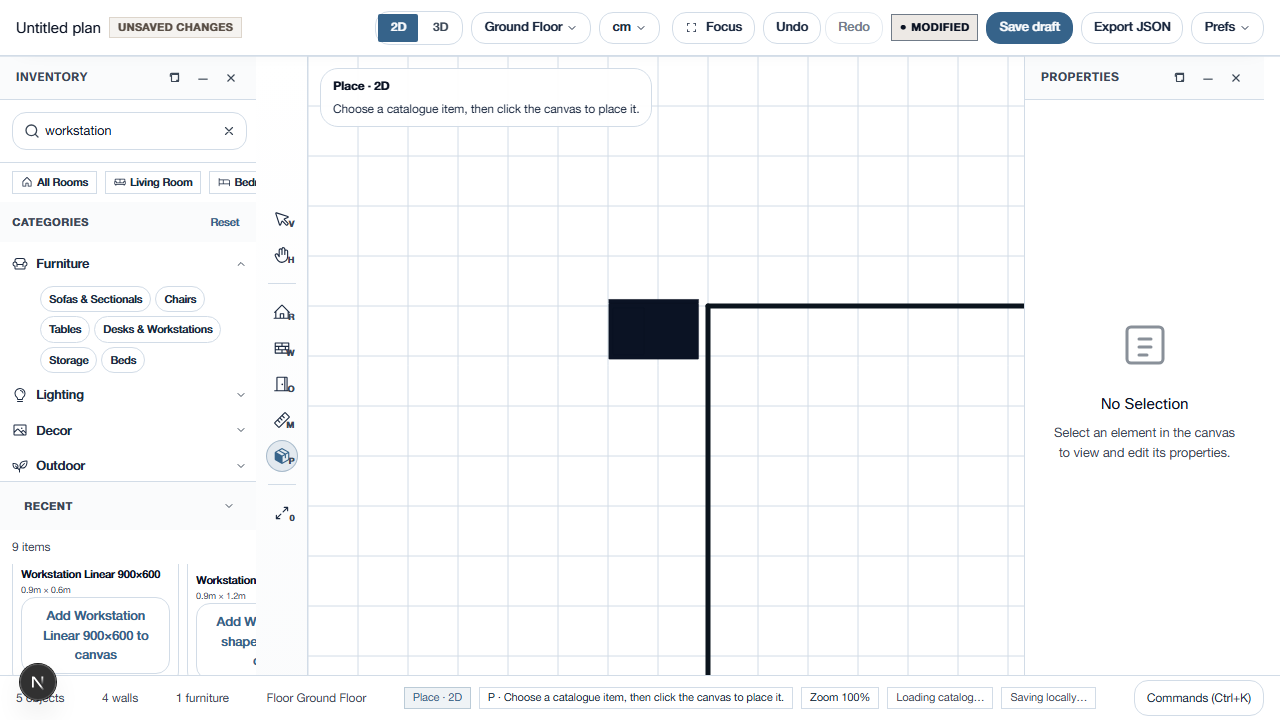
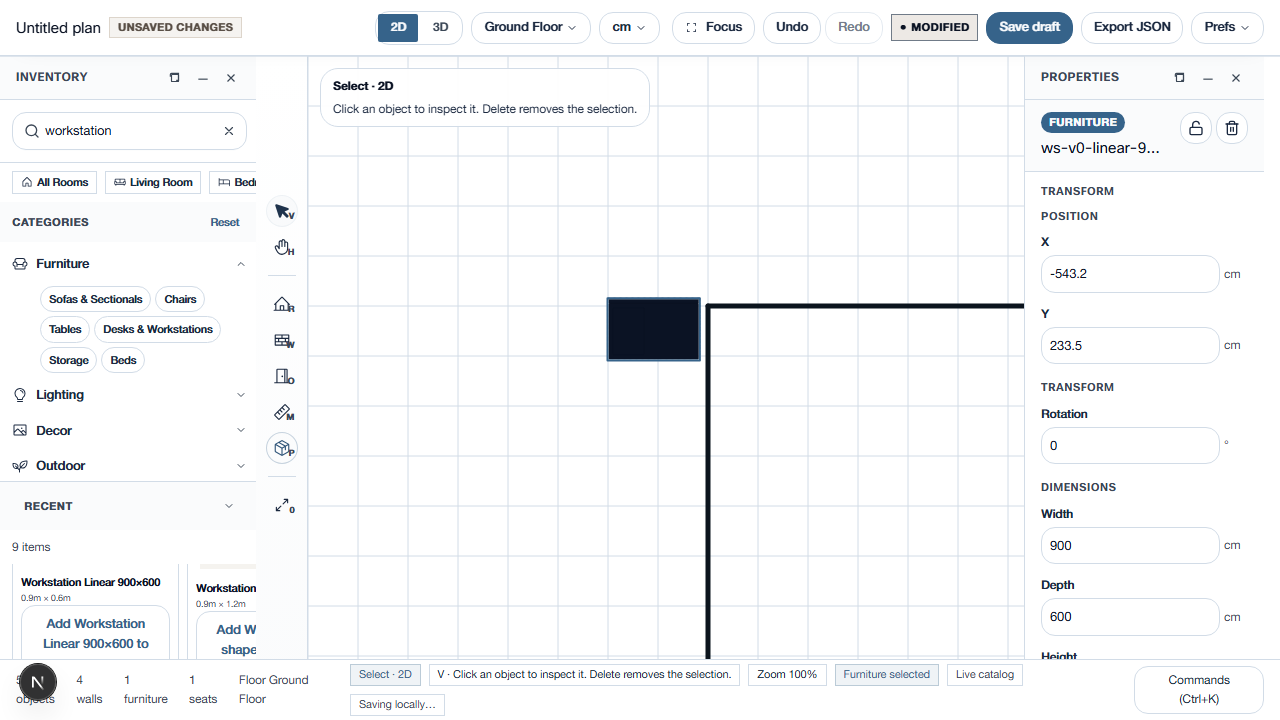
test(e2e): assert systems-v0 place auto-selects furniture
After inventory place, poll Select tool / selection status / properties
cue and capture 12-selected.png under 07-systems-v0 evidence.

diff --git a/site/tests/e2e/open3d-systems-v0-workstation-place.spec.ts b/site/tests/e2e/open3d-systems-v0-workstation-place.spec.ts
@@ -1,5 +1,6 @@
 /**
- * Systems v0 — browser: guest inventory place workstation (ws-v0) → furniture +1.
+ * Systems v0 — browser: guest inventory place workstation (ws-v0) → furniture +1
+ * and place auto-selects furniture (Select tool / selection status / properties cue).
  * Evidence: results/planner/world-standard-wave/07-systems-v0/
  */
 import { expect, test, type Page } from "@playwright/test";
@@ -35,8 +36,49 @@ async function furnitureCount(page: Page): Promise<number> {
   return match ? Number.parseInt(match[1], 10) : -1;
 }
 
+/**
+ * Place path auto-selects furniture and returns to Select tool.
+ * Accept any of: Select pressed, status "… selected", properties not empty.
+ */
+async function placementAutoSelectCue(page: Page): Promise<{
+  selectActive: boolean;
+  selectionStatus: boolean;
+  propertiesHasSelection: boolean;
+  ok: boolean;
+}> {
+  const selectBtn = page
+    .getByRole("navigation", { name: "Canvas tools" })
+    .getByRole("button", { name: /^Select\b/i });
+  const selectActive =
+    (await selectBtn.getAttribute("aria-pressed").catch(() => null)) === "true";
+
+  const bodyText = await page.locator("body").innerText().catch(() => "");
+  const selectionStatus =
+    /Furniture selected|\d+\s+furniture\s+selected/i.test(bodyText) ||
+    (await page
+      .locator(".open3d-status-pill--accent, .open3d-status-pill, [class*='status']")
+      .filter({ hasText: /selected/i })
+      .count()
+      .catch(() => 0)) > 0;
+
+  const noSelectionCount = await page
+    .getByRole("heading", { name: /No Selection/i })
+    .count()
+    .catch(() => 1);
+  const propertiesHasSelection = noSelectionCount === 0;
+
+  return {
+    selectActive,
+    selectionStatus,
+    propertiesHasSelection,
+    ok: selectActive || selectionStatus || propertiesHasSelection,
+  };
+}
+
 test.describe("Systems v0 workstation place (browser)", () => {
-  test("guest → search workstation → place → furniture +1", async ({ page }) => {
+  test("guest → search workstation → place → furniture +1 + auto-select", async ({
+    page,
+  }) => {
     fs.mkdirSync(EVIDENCE, { recursive: true });
 
     await enterGuestPlannerWorkspace(page, {
@@ -91,9 +133,20 @@ test.describe("Systems v0 workstation place (browser)", () => {
 
     // Status message often includes "Placed"
     const body = await page.locator("body").innerText();
-    expect(
-      /Placed|workstation|furniture/i.test(body),
-    ).toBe(true);
+    expect(/Placed|workstation|furniture/i.test(body)).toBe(true);
+
+    // Place auto-selects furniture: Select tool OR status OR properties cue
+    await expect
+      .poll(async () => (await placementAutoSelectCue(page)).ok, {
+        timeout: 10_000,
+      })
+      .toBe(true);
+
+    const selectCue = await placementAutoSelectCue(page);
+    expect(selectCue.ok).toBe(true);
+    await page.screenshot({
+      path: path.join(EVIDENCE, "12-selected.png"),
+    });
 
     fs.writeFileSync(
       path.join(EVIDENCE, "browser-place-run.json"),
@@ -102,6 +155,11 @@ test.describe("Systems v0 workstation place (browser)", () => {
           ok: true,
           furnitureBefore: before,
           furnitureAfter: after,
+          autoSelect: {
+            selectActive: selectCue.selectActive,
+            selectionStatus: selectCue.selectionStatus,
+            propertiesHasSelection: selectCue.propertiesHasSelection,
+          },
           at: new Date().toISOString(),
         },
         null,

diff --git a/results/planner/world-standard-wave/07-systems-v0/NOTES.md b/results/planner/world-standard-wave/07-systems-v0/NOTES.md
@@ -76,6 +76,12 @@ Inventory click-to-place uses existing OOPlannerWorkspace → placeCatalogItemIn
 - Evidence: 10/11 screenshots + browser-place-run.json
 - Command: `PLAYWRIGHT_BASE_URL=http://localhost:3000 npx playwright test -c config/build/playwright.config.ts tests/e2e/open3d-systems-v0-workstation-place.spec.ts` (1 passed ~2.9s)
 
+## Browser place auto-select (2026-07-09)
+
+- After place, asserts auto-select cue: Select tool `aria-pressed` **or** status "Furniture selected" **or** properties not "No Selection"
+- Screenshot: `12-selected.png`
+- Command (green): same e2e path — 1 passed ~2.4s; `browser-place-run.json` includes `autoSelect` flags
+
 ## Batch + BOQ (2026-07-09)
 
 - `placeWorkstationInstancesOnProject` — N grid instances, `PLACE_WORKSTATION_V0_BATCH` (50-unit test)